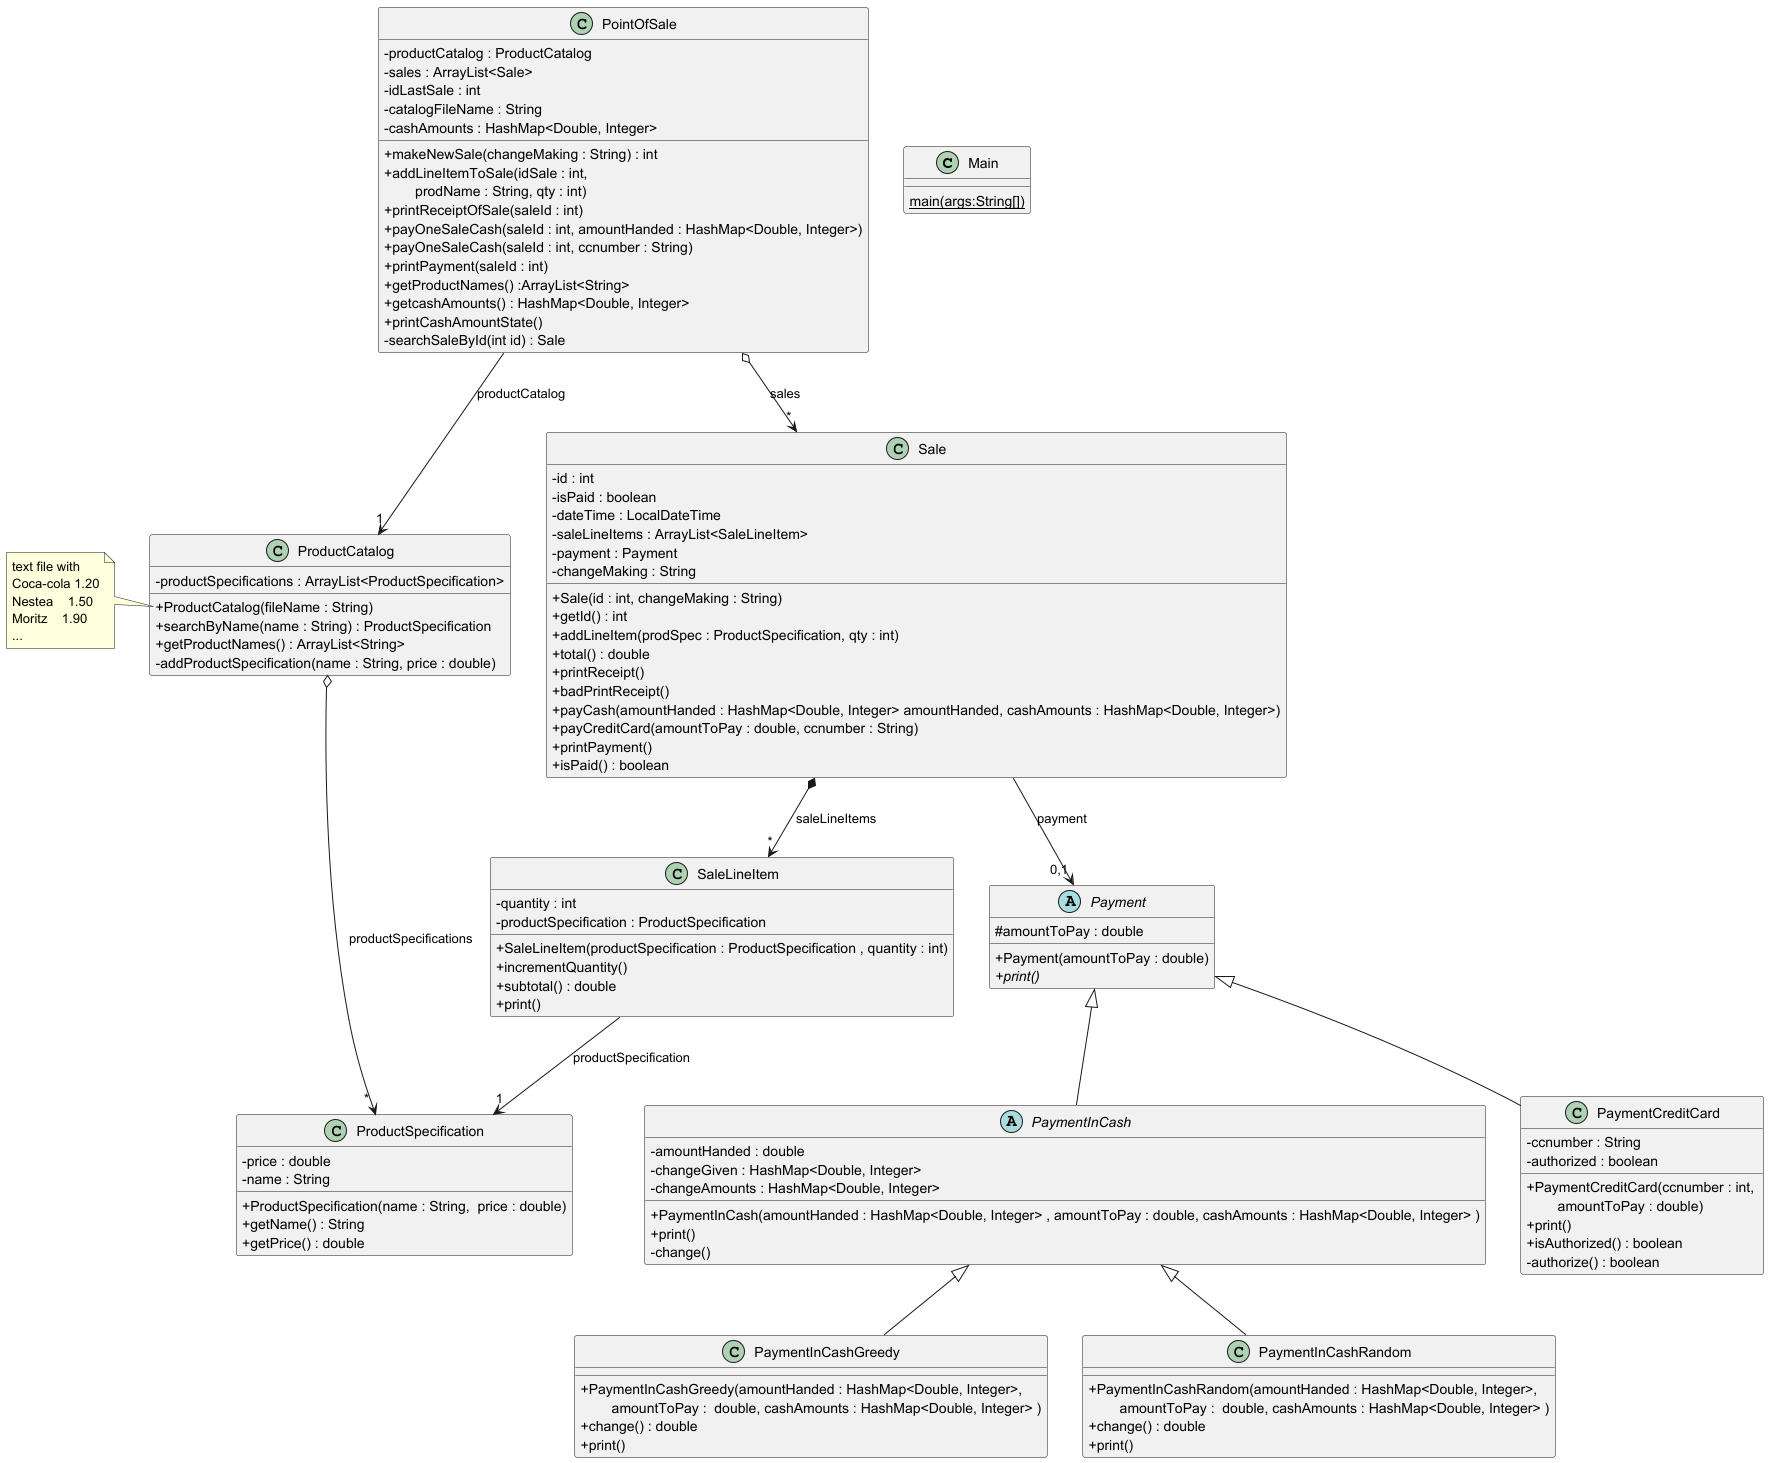
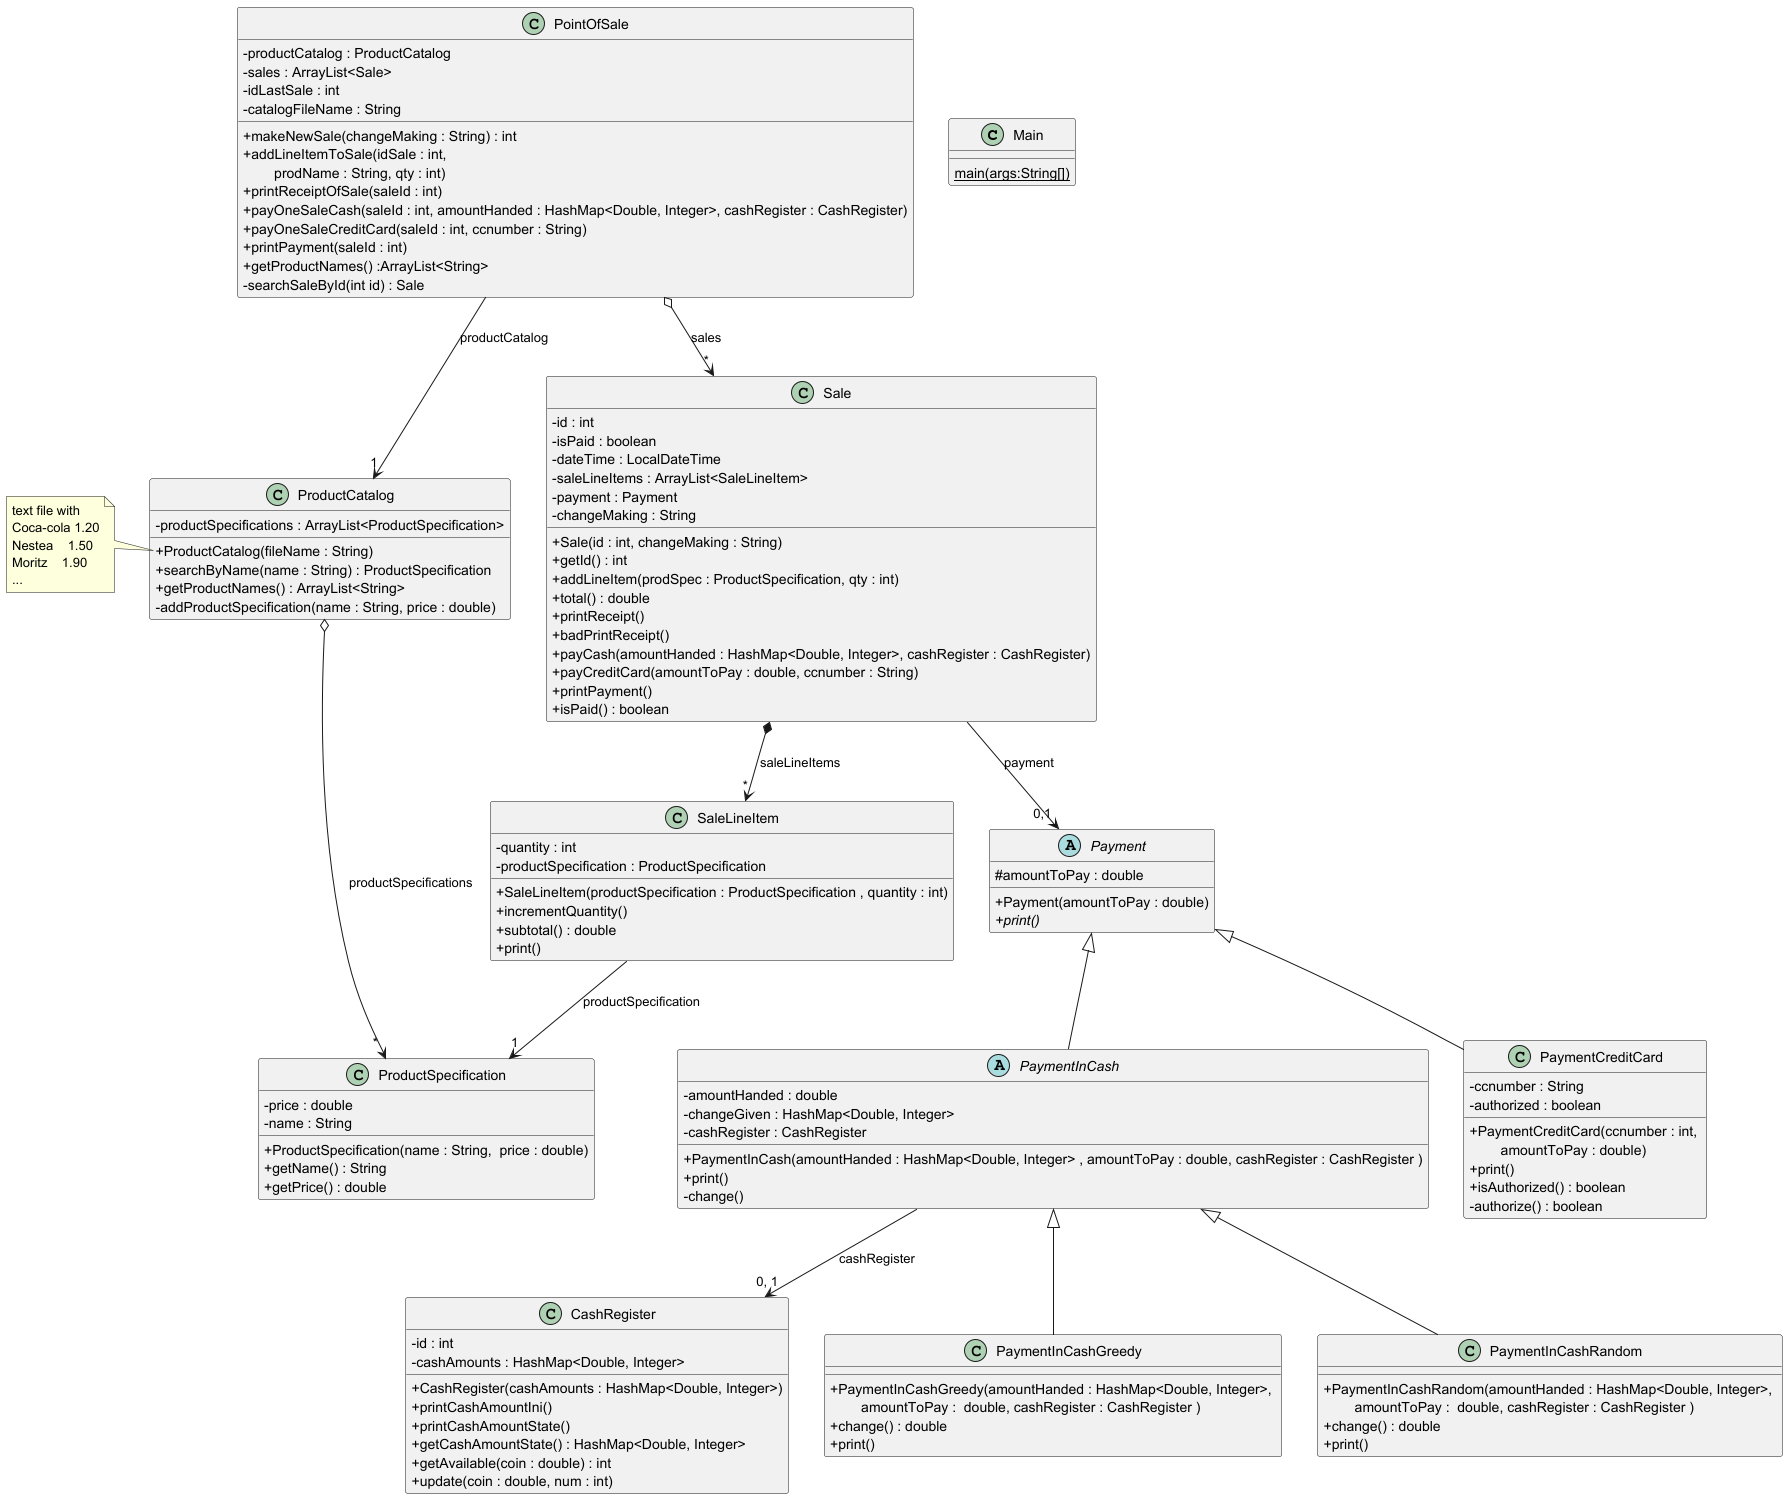
Cambio para que Sale no sea tan dependiente

diff --git a/PointOfSale-master/src/pos_creditcard/Main.java b/PointOfSale-master/src/pos_creditcard/Main.java
@@ -24,7 +24,7 @@ public class Main {
     // Some customers arrive, sit at a table, the waiter comes and makes a new sale.
     // Then takes the order : 4 Moritz and 1 Coca-cola
     //SALE 0
-    int idSale = pointOfSale.makeNewSale("not", register);
+    int idSale = pointOfSale.makeNewSale("not");
     pointOfSale.addLineItemToSale(idSale, "Moritz", 4);
     System.out.println("ordered 4 Moritz");
     pointOfSale.addLineItemToSale(idSale, "Coca-cola", 1);
@@ -36,12 +36,12 @@ public class Main {
     //Money Handed
     HashMap<Double, Integer> moneyHanded = new HashMap();
     moneyHanded.put(10.0, 2);
-    pointOfSale.payOneSaleCash(idSale, moneyHanded);
+    pointOfSale.payOneSaleCash(idSale, moneyHanded, register);
     //print change
     pointOfSale.printPayment(idSale);
 
     //SALE 1
-    int idSale1 = pointOfSale.makeNewSale("optimal", register);
+    int idSale1 = pointOfSale.makeNewSale("optimal");
     System.out.println("Sale 2");
     pointOfSale.addLineItemToSale(idSale1, "Moritz", 4);
     System.out.println("ordered 4 Moritz");
@@ -54,12 +54,12 @@ public class Main {
     //Money Handed
     HashMap<Double, Integer> moneyHanded1 = new HashMap();
     moneyHanded1.put(10.0, 2);
-    pointOfSale.payOneSaleCash(idSale1, moneyHanded1);
+    pointOfSale.payOneSaleCash(idSale1, moneyHanded1, register);
     //print change
     pointOfSale.printPayment(idSale1);
 
     //SALE 2
-    int idSale2 = pointOfSale.makeNewSale("", register);
+    int idSale2 = pointOfSale.makeNewSale("");
     pointOfSale.addLineItemToSale(idSale2, "Nestea", 1);
     pointOfSale.printReceiptOfSale(idSale2);
     pointOfSale.payOneSaleCreditCard(idSale2, "4502360043567891");

diff --git a/PointOfSale-master/src/pos_creditcard/Sale.java b/PointOfSale-master/src/pos_creditcard/Sale.java
@@ -14,12 +14,12 @@ public class Sale {
   private LocalDateTime dateTime = LocalDateTime.now();
   private Payment payment;  // note : supertype
   private String changeMaking;
-  private CashRegister cashRegister;
+  //private CashRegister cashRegister;
 
-  public Sale(int id, String changeMaking, CashRegister cashRegister) {
+  public Sale(int id, String changeMaking) { //, CashRegister cashRegister
     this.id = id;
     this.changeMaking = changeMaking;
-    this.cashRegister = cashRegister;
+    //this.cashRegister = cashRegister;
   }
 
   public int getId() {
@@ -68,7 +68,7 @@ public class Sale {
     System.out.printf("Total %.2f\n", total);
   }
 
-  public void payCash(HashMap<Double, Integer> amountHanded) {
+  public void payCash(HashMap<Double, Integer> amountHanded, CashRegister cashRegister) {
     assert !isPaid : "sale " + id + " has already been paid";
     if(changeMaking.equals("optimal"))
     {

diff --git a/PointOfSale-master/src/pos_creditcard/PointOfSale.java b/PointOfSale-master/src/pos_creditcard/PointOfSale.java
@@ -15,9 +15,9 @@ public class PointOfSale {
     sales = new ArrayList<>();
   }
 
-  public int makeNewSale(String changeMaking, CashRegister cashRegister) {
+  public int makeNewSale(String changeMaking) {
     idLastSale++;
-    Sale newSale = new Sale(idLastSale, changeMaking, cashRegister);
+    Sale newSale = new Sale(idLastSale, changeMaking);
     sales.add(newSale);
     return idLastSale;
   }
@@ -42,9 +42,9 @@ public class PointOfSale {
     sale.printReceipt();
   }
 
-  public void payOneSaleCash(int saleId, HashMap<Double, Integer> amountHanded) {
+  public void payOneSaleCash(int saleId, HashMap<Double, Integer> amountHanded, CashRegister cashRegister) {
     Sale sale = searchSaleById(saleId);
-    sale.payCash(amountHanded);
+    sale.payCash(amountHanded, cashRegister);
   }
 
   public void payOneSaleCreditCard(int saleId, String ccnumber) {
